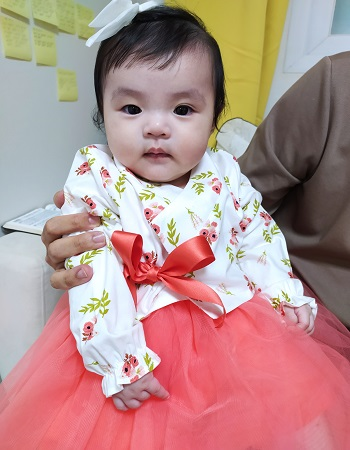
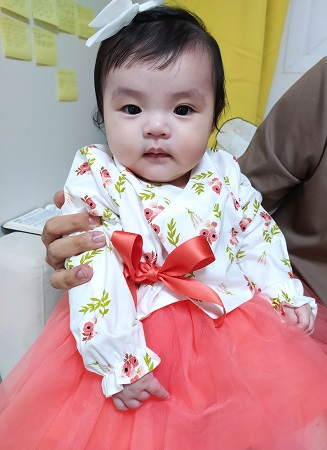
CSS SKIlls

diff --git a/index.html b/index.html
@@ -47,65 +47,80 @@
     </nav>
 
     <!-- home -->
-    <section id="home">
+    <section id="home" class="section">
       <img
-        src="img/Tommy-home.png"
+        src="img/JoyHomePhoto.png"
         alt="Tommy`s profile photo"
-        class="home__avatar"
-      />
+        class="home__avatar"/>
       <h1 class="home_title">
         <!--br을 쓰면 줄바꿈이 됨-->
-        안녕하세요,<br />Tommy의 홈페이지에 오신 것을 환영합니다.
-      </h1>
+        안녕하세요,<br />JoyLee 홈페이지에 오신 것을 환영합니다.
       <h2 class="home__description">
-        저는 서울중앙우체국에서 근무하는 우체국 공무원입니다. <br />아내 Alice와
-        딸 Joy와 함께 살고 있습니다.
+        저는 현재 1살입니다. <br />아빠 Tommy와 엄마 Alice와 함께 살고 있습니다.
       </h2>
       <button class="home__contact">Contact Me</button>
+    </div>
     </section>
 
     <!-- About -->
-    <section id="about">
+    <section id="about" class="section">
+      <div class="section__container">
       <h1>About me</h1>
       <p>
-        (introduce myself) 1989년생, 2010년~2017년 세종대학교 행정학과 졸업,
-        2018년 서울중앙우체국 입사, <br />2021년 결혼, 2022년 딸 Joy 출생,
-        2023년 현재 육아휴직
+        (Introduce myself) 저는 2022년 7월 1일 새벽에 태어났어요.
       </p>
       <div class="about__majors">
+
         <div class="major">
           <div class="major__icon">
-            <i class="fa-solid fa-school"></i>
+            <i class="fa-solid fa-person-walking"></i>
           </div>
-          <div class="major__title">OA 작업능력</div>
+          <div class="major__title">기어다니기</div>
           <div class="major__description">
-            Excel, powerpoint, 한글 등의 문서작업에 능숙합니다.
+           초속 5m/s의 속도로 이동이 가능합니다.
           </div>
+          </div>
+
           <div class="major">
             <div class="major__icon">
-              <i class="fa-solid fa-computer"></i>
+              <i class="fa-solid fa-child-reaching"></i>
             </div>
-            <div class="major__title">정보화 역량</div>
+            <div class="major__title">잡고 일어서기</div>
             <div class="major__description">
-              HTML,CSS,JavaScript를 통한 기본적인 웹페이지 제작이 가능합니다.
+             탁자, 소파 등을 잡고 일어설 수 있습니다.
             </div>
           </div>
-        </div>
 
+        </div>
+       
+<div class="job__container">
         <div class="job">
+          <div class="job__log__box">
           <img src="img/Sejong.png" alt="sejonguniv" class="job__logo" />
+        </div>
+          <div class="job__description">
           <p class="job__name">세종대학교 행정학 전공</p>
           <p class="job__period">2010년 ~ 2017년</p>
+        </div>
+      </div>
 
-          <img src="img/postoffice.png" alt="postoffice" class="job__logo" />
+        <div class="job2">
+        <div class="job__log__box">
+        <img src="img/postoffice.png" alt="postoffice" class="job__logo" />
+      </div>
+        <div class="job__description">
           <p class="job__name">우정사업본부 서울중앙우체국</p>
           <p class="job__period">2018년 ~ 2023년 현재</p>
         </div>
+        </div>
       </div>
+     </div>
     </section>
 
     <!-- skills -->
-    <section id="skills">
+    <section id="skills" class="section">
+      <div class="section__container">
+        <h1>skills</h1>
       <div class="skillset">
         <!--left는 기술능력, 프로그래스바-->
         <div class="skillset__left">
@@ -114,30 +129,33 @@
             <div class="skill__description">
               <span>Excel</span>
               <span>99%</span>
-            </div>
-            <div class="skill__bar"></div>
-            <div class="skill__value"></div>
+              </div>
+              <div class="skill__bar"></div>
+              <div class="skill__value" style="width :99%;"></div>
           </div>
+          
           <div class="skill">
             <div class="skill__description">
               <span>Word</span>
               <span>70%</span>
             </div>
             <div class="skill__bar"></div>
-            <div class="skill__value"></div>
+            <div class="skill__value" style="width :70%;"></div>
+            </div>
+
             <div class="skill">
               <div class="skill__description">
                 <span>HTML, CSS, JavaScript</span>
                 <span>30%</span>
               </div>
               <div class="skill__bar"></div>
-              <div class="skill__value"></div>
+              <div class="skill__value" style="width :30%;"></div>
             </div>
           </div>
-        </div>
+        
 
         <!--tools, etc 작성-->
-        <div class="skillset_right">
+        <div class="skillset__right">
           <div class="tools">
             <h3 class="skillset__title">Tools</h3>
             <ul class="tools__list">
@@ -158,10 +176,11 @@
           </div>
         </div>
       </div>
+      </div>
     </section>
 
  <!-- Work -->
- <section id="Work">
+ <section id="Work" class="section">
       <h1>My work</h1>
       <h3>projects</h3>
       <div class="work__categorys">
@@ -206,7 +225,7 @@
   </section> 
 
     <!-- testimonials -->
-    <section id="testimonials">
+    <section id="testimonials" class="section">
      <h1>Testimonials</h1>
      <h3>사람들의 나에 대한 이야기</h3>
   <div class="testimonials">

diff --git a/style.css b/style.css
@@ -81,11 +81,28 @@ a {
   color: var(--color-white);
   font-size: var(--font-medium);
 }
+button {
+  background-color: transparent;
+  cursor: pointer;
+  border: none;
+  outline: none;
+}
+
+/*section common */
+.section {
+  padding: 50px;
+  text-align: center;
+  margin: auto;
+}
+.section__container {
+  max-width: 1100px;
+  margin: auto;
+}
 /* Navbar */
 #navbar {
   display: flex;
   justify-content: space-between;
-  background-color: var(--color-pink);
+  background-color: var(--color-blue);
   align-items: center;
   padding: 0 16px;
   margin: 0;
@@ -113,4 +130,136 @@ a {
 }
 div a {
   margin: 0 2px;
+}
+
+/*Home*/
+#home {
+  background: url("img/background.png") center/ cover no-repeat;
+  padding: 40px;
+}
+.home__avatar {
+  width: 400px;
+  height: 400px;
+  border: 2px solid var(--color-dark-white);
+  border-radius: 50%;
+}
+.home_title,
+.home__description {
+  color: var(--color-black);
+}
+.home__contact {
+  padding: 8px 12px;
+  margin: 24px;
+  font-size: var(--font-regular);
+  font-weight: var(--weight-semi-bold);
+  border: 2px solid var(--color-white);
+  border-radius: var(--size-border-radius);
+}
+
+/*about*/
+.about__majors {
+  display: flex;
+  justify-content: space-around;
+  margin: 50px 0;
+}
+.major__icon {
+  width: 170px;
+  height: 170px;
+  margin: auto;
+  margin-bottom: 16px;
+  font-size: 100px;
+  line-height: 170px;
+  color: var(--color-blue);
+  border: 2px solid var(--color-blue);
+  border-radius: 50%;
+}
+.major__icon:hover i {
+  color: var(--color-pink);
+  transform: rotate(-30deg) scale(1.1);
+}
+.major__icon i {
+  transition: all 300ms ease;
+}
+
+.fa-solid.fa-child-reaching {
+  transform: translateX(4%);
+}
+.major__title {
+  margin: 20px;
+}
+
+.major__title,
+.major__description {
+  color: var(--color-dark-grey);
+}
+.major__description {
+  font-size: var(--font-small);
+}
+
+/*about - job */
+.job__container {
+  margin-top: 100px;
+}
+.job {
+  display: flex;
+  align-items: center;
+}
+.job2 {
+  display: flex;
+  align-items: center;
+}
+.job__logo {
+  width: 100px;
+  height: 100px;
+}
+.job__description {
+  margin: 0 40px;
+  text-align: center;
+}
+.job__name,
+.job__period {
+  color: var(--color-light-grey);
+  font-size: var(--font-small);
+}
+
+.job__period {
+  font-size: var(--font-micro);
+}
+/*skils*/
+#skills {
+  background-color: var(--color-yellow);
+}
+.skillset {
+  display: flex;
+  background-color: var(--color-light-grey);
+}
+.skillset__left {
+  flex-basis: 60%;
+  padding: 20px 40px;
+  background-color: var(--color-dark-grey);
+}
+.skillset__right {
+  flex-basis: 40%;
+}
+
+.skill__description {
+  display: flex;
+  justify-content: space-between;
+}
+.skill__bar {
+  width: 100%;
+  height: 3px;
+  background-color: var(--color-grey);
+}
+.skill__value {
+  height: 3px;
+  background-color: var(--color-orange);
+  position: relative;
+  top: -2px;
+}
+.skill {
+  margin-bottom: 24px;
+}
+.tools {
+  background-color: var(--color-grey);
 }
